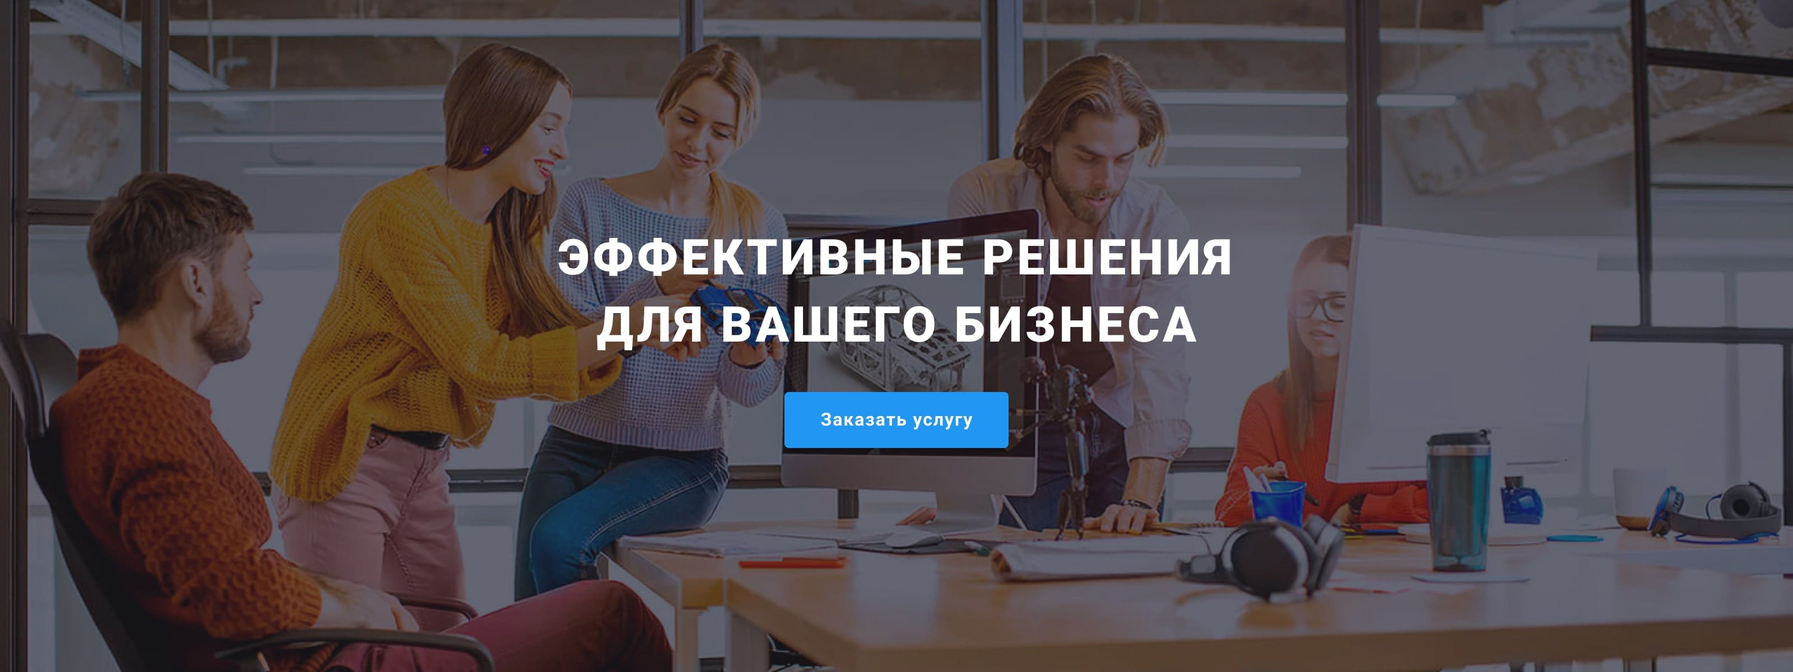
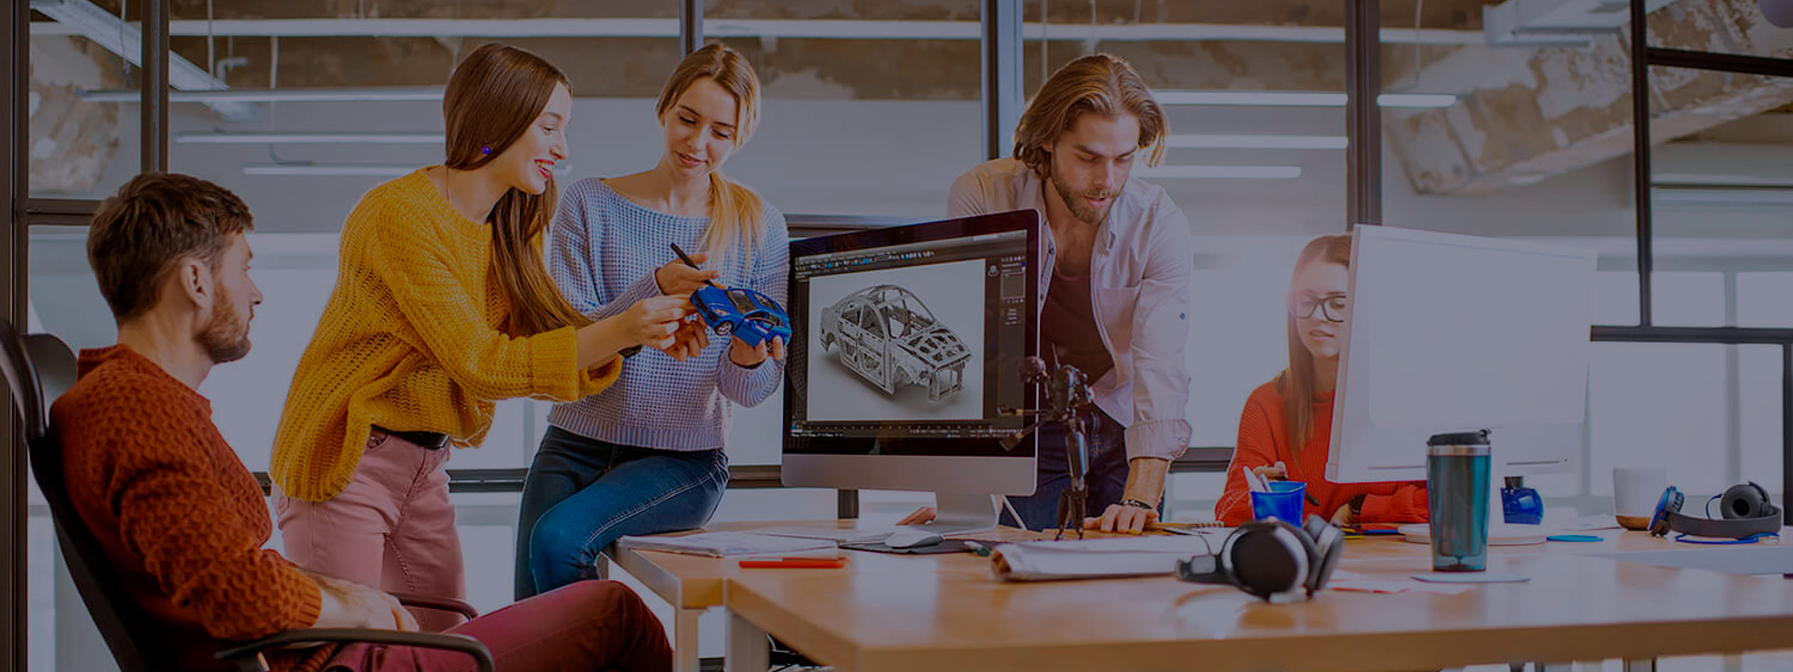
header munu button

diff --git a/css/main.min.css b/css/main.min.css
@@ -1,2 +1,2 @@
-:root{--logo-part1-color: #2196f3;--logo-part2-color-dark: #000000;--logo-part2-color-light: #ffffff;--heder-navigation-color: #212121;--heder-contacts-color: #757575;--accent-color: #2196f3;--title-main-color: #212121;--title-second-color: #ffffff;--text-main-color: #757575;--text-second-color: #ffffff;--btn-main-color: #2196f3;--btn-second-color: #f5f4fa;--btn-accent-color: #188ce8;--btn-text-color: #ffffff;--btn-second-text-color: #212121;--footer-main-text-color: #ffffff;--footer-second-text-color: rgba(255, 255, 255, 0.6);--background-main-color: #ffffff;--items-background-color: #ffffff;--icon-background-color: #ffffff}p,h1,h2,h3{margin:0}img{display:block;max-width:100%}.visually-hidden{position:absolute;white-space:nowrap;width:1px;height:1px;overflow:hidden;border:0;padding:0;clip:rect(0 0 0 0);clip-path:inset(50%);margin:-1px}.backdrop{width:100vw;height:100vh;background-color:rgba(0,0,0,0.2);position:fixed;top:0;transition:opacity 500ms cubic-bezier(0.4, 0, 0.2, 1),visibility 500ms cubic-bezier(0.4, 0, 0.2, 1)}.backdrop.is-hidden .modal{transform:scale(1.5) rotate(180deg);transition:transform 500ms}.modal{width:528px;height:581px;background-color:#fff;box-shadow:0px 1px 3px rgba(0,0,0,0.12),0px 1px 1px rgba(0,0,0,0.14),0px 2px 1px rgba(0,0,0,0.2);border-radius:4px;position:absolute;top:50%;left:50%;transform:scale(1) rotate(0);transform:translate(-50%, -50%);transition:transform 500ms;padding:40px}.modal-close__button{width:30px;height:30px;border:1px solid rgba(0,0,0,0.1);border-radius:50%;position:absolute;background-color:inherit;top:8px;right:8px;display:flex;align-items:center;justify-content:center;transition:fill 250ms cubic-bezier(0.4, 0, 0.2, 1),background-color 250ms cubic-bezier(0.4, 0, 0.2, 1)}.modal-close__button:focus,.modal-close__button:hover+.modal-close__icon{fill:#2196f3;background-color:rgba(0,0,0,0.1)}.modal-close__button:hover,.modal-close__button:focus+.modal-close__icon{fill:#2196f3;background-color:rgba(0,0,0,0.1)}.is-hidden{visibility:hidden;opacity:0;pointer-events:none}.modal__title{font-family:inherit;font-weight:700;font-size:20px;line-height:1.16;color:#212121;text-align:center;margin-bottom:12px}.modal-form{display:block}.modal-form__field{margin-bottom:10px}.modal-form__label{font-family:inherit;font-weight:400;font-size:12px;line-height:1.16;letter-spacing:0.01em;color:#757575;margin-bottom:4px}.modal-form__input{width:100%;height:40px;border:1px solid rgba(33,33,33,0.2);border-radius:4px;padding:12px 12px 12px 42px;color:#757575;outline:none;transition:border-color 250ms cubic-bezier(0.4, 0, 0.2, 1),fill 250ms cubic-bezier(0.4, 0, 0.2, 1)}.modal-form__input:focus{border-color:#2196f3}.modal-form__input:focus+.input__icon{fill:#2196f3}.modal-form__input:focus,.modal-form__textarea:focus{border-color:#2196f3}.input__wrap{position:relative}.input__icon{position:absolute;top:50%;left:12px;display:inline-block;transform:translateY(-50%)}.modal-form__textarea{width:100%;height:120px;resize:none;color:#757575;border:1px solid rgba(33,33,33,0.2);border-radius:4px;padding:12px 16px;outline:none;transition:border-color 250ms cubic-bezier(0.4, 0, 0.2, 1)}.modal-form__textarea::placeholder{font-weight:normal;font-size:12px;line-height:1.16;color:rgba(117,117,117,0.5)}.modal-form__textarea:focus{border-color:#2196f3}.modal-form__field--mar-bot-20{margin-bottom:20px}.modal-check{width:100%;height:100%;margin-bottom:30px}.modal-check__label{font-size:14px;line-height:1.71;letter-spacing:0.03em;color:#757575;display:flex;align-items:center;justify-content:center}.modal-check__item{width:16px;height:15px;border:2px solid #212121;border-radius:2px;display:block;margin-right:8.38px;display:flex;align-items:center;justify-content:center;transition:border-color 250ms cubic-bezier(0.4, 0, 0.2, 1)}.modal-check__input:focus+.modal-check__label .modal-check__item{border-color:#2196f3}.modal-check__icon{fill:#ffffff}.policy-link{color:#2196f3;margin-left:3px}.modal-check__input:checked+.modal-check__label .modal-check__item{background-color:#2196f3;border:none}.modal-form__button{margin:0 auto;border:none;transition:box-shadow 250ms cubic-bezier(0.4, 0, 0.2, 1)}.modal-form__button:hover,.modal-form__button:focus{background-color:#188ce8;box-shadow:0px 4px 4px rgba(0,0,0,0.15)}.container{width:1200px;padding-left:15px;padding-right:15px;margin:0 auto}.section{font-family:'Roboto', sans-serif;font-style:normal;color:var(--text-main-color);padding-top:94px;padding-bottom:94px;background-color:var(--background-main-color)}.logo-part1{font-family:'Raleway';font-weight:700;font-size:26px;line-height:1.19;letter-spacing:0.03em;color:var(--logo-part1-color)}.logo-part2--black{font-family:'Raleway';font-weight:400;font-size:26px;line-height:1.19;letter-spacing:0.03em;color:var(--logo-part2-color-dark)}.logo-part2--white{font-family:'Raleway';font-weight:700;font-size:26px;line-height:1.19;letter-spacing:0.03em;color:var(--logo-part2-color-light)}.button{cursor:pointer;font-family:inherit;font-weight:700;font-size:16px;line-height:1.87;display:flex;align-items:center;text-align:center;letter-spacing:0.06em;background:var(--btn-main-color);color:var(--btn-text-color);box-sizing:border-box;min-width:200px;min-height:50px;border-radius:4px;padding:10px 32px;display:block;transition:background-color 250ms cubic-bezier(0.4, 0, 0.2, 1)}.subscribe__button{width:200px;padding:10px 28px;margin-left:12px;position:relative;display:inline-flex}.subscribe-btn__icon{position:absolute;top:50%;right:28px;transform:translateY(-50%);fill:var(--btn-text-color);margin-left:10px}.list{list-style:none;margin:0;padding:0}.link{text-decoration:none}.header{border-bottom:1px solid #ececec}.header__container{display:flex;align-items:center;justify-content:space-between}.navigation{display:flex;align-items:center}.navigation__list{display:flex;margin-left:95px;width:294px}.navigation__item:not(:last-child){margin-right:50px}.navigation__link{font-weight:500;font-size:14px;line-height:1.14;letter-spacing:0.02em;color:var(--heder-navigation-color);padding-top:35px;padding-bottom:35px;display:flex;align-items:center;transition:color 250ms cubic-bezier(0.4, 0, 0.2, 1);position:relative}.navigation__link:hover,.navigation__link:focus{color:var(--accent-color)}.navigation__link--current{color:var(--accent-color)}.navigation__link--current::after{content:'';width:100%;height:4px;background-color:var(--accent-color);border-radius:2px;position:absolute;display:block;bottom:0}.header-contacts__list{display:inline-flex;justify-content:flex-end}.contacts__item:not(:last-child){margin-right:30px}.contacts__link{font-weight:500;font-size:14px;line-height:1.14;letter-spacing:0.02em;color:var(--heder-contacts-color);padding-top:35px;padding-bottom:35px;display:flex;align-items:center;transition:color 250ms cubic-bezier(0.4, 0, 0.2, 1)}.contacts__link::before{fill:currentColor;margin-right:10px}.contacts__link:hover,.contacts__link:focus{color:var(--accent-color)}.contacts__icon{fill:currentColor;margin-right:10px}.hero__section{background-color:#c4c4c4;background-image:linear-gradient(rgba(47,48,58,0.4), rgba(47,48,58,0.4)),url(../images/Hero-bg.jpg);background-repeat:no-repeat;background-position:center;padding-bottom:200px;padding-top:200px}.hero__title{font-weight:900;font-size:44px;line-height:1.36;text-align:center;letter-spacing:0.06em;text-transform:uppercase;color:var(--title-second-color);max-width:696px;margin:0 auto 30px}.hero__button{margin:0 auto}.hero__button:hover,.hero__button:focus{background-color:#188ce8}.features__section{padding-bottom:0px}.features__list{display:flex}.features__item{width:270px}.features__item+.features__item{margin-left:30px}.futures__picture{width:270px;height:120px;background:#f5f4fa;padding:25px 100px;margin-bottom:30px;border-radius:4px}.futures__icon{width:70px;height:70px}.features__title{font-weight:700;font-size:14px;line-height:1.14;letter-spacing:0.03em;text-transform:uppercase;color:var(--title-main-color);margin-bottom:10px}.features__text{font-weight:400;font-size:14px;line-height:1.71;letter-spacing:0.03em;color:var(--text-main-color)}.directions__title{font-weight:700;font-size:36px;line-height:1.17;text-align:center;letter-spacing:0.03em;color:var(--title-main-color);margin-bottom:50px}.directions__list{display:flex;padding-left:0px}.directions__item:not(:last-child){margin-right:30px}.directions__card{position:relative;bottom:0;right:0;width:100%;display:block}.directions__text-wrap{position:absolute;bottom:0;right:0;width:100%;height:23.8%;background-color:rgba(47,48,58,0.8);padding:27px 0;display:flex;justify-content:center}.directions__text{font-weight:700;font-size:14px;line-height:1.14;letter-spacing:0.03em;color:#ffffff;text-transform:uppercase}.team__section{background-color:#f5f4fa}.team__title{font-weight:bold;font-size:36px;line-height:1.16;text-align:center;letter-spacing:0.03em;color:var(--title-main-color);margin-bottom:50px}.team__list{display:flex;flex-wrap:wrap}.team__card{background:var(--items-background-color);width:270px;filter:drop-shadow(0px 4px 4px rgba(0,0,0,0.25))}.team__card:not(:last-child){margin-right:30px}.team-member__info{padding-top:30px;padding-bottom:30px}.team-member__title{font-weight:500;font-size:16px;line-height:1.19;text-align:center;letter-spacing:0.03em;color:var(--title-main-color);margin-bottom:10px}.team-member__text{font-weight:400;font-size:16px;line-height:1.19;text-align:center;letter-spacing:0.03em;color:var(--text-main-color);margin-bottom:16px}.social-networks__list{display:flex;justify-content:center}.social-networks__picture{width:44px;height:44px}.social-networks__picture+.social-networks__picture{margin-left:10px}.social-networks__link{width:100%;height:100%;display:block;background-color:inherit;border-radius:50%;display:flex;align-items:center;justify-content:center;color:#afb1b8;transition:background-color 250ms cubic-bezier(0.4, 0, 0.2, 1),color 250ms cubic-bezier(0.4, 0, 0.2, 1)}.social-networks__link:hover,.social-networks__link:focus{background-color:#2196f3;color:#ffffff}.social-networks__icon{fill:currentColor}.customers__title{font-weight:700;font-size:36px;line-height:1.16;text-align:center;letter-spacing:0.03em;color:var(--title-main-color);margin-bottom:50px}.customers__list{display:flex}.customers__picture{width:170px;height:92px}.customers__picture:not(:last-child){margin-right:30px}.customers__link{width:100%;height:100%;display:block;background-color:var(--icon-background-color);display:flex;align-items:center;justify-content:center;color:#afb1b8;border:1px solid #afb1b8;box-sizing:border-box;border-radius:4px;padding:16px 32px;transition:color 250ms cubic-bezier(0.4, 0, 0.2, 1),border 250ms cubic-bezier(0.4, 0, 0.2, 1)}.customers__link:hover,.customers__link:focus{color:#2196f3;border:1px solid #2196f3}.customers__icon{fill:currentColor}.portfolio-filter__list{display:flex;margin:0 auto 34px;justify-content:center}.portfolio-filter__list:not(:last-child){margin-right:8px}.portfolio-filter__items:not(:last-child){margin-right:8px}.portfolio-filter__button{background-color:#f5f4fa;font-family:inherit;font-weight:500;font-size:16px;line-height:1.62;text-align:center;letter-spacing:0.03em;color:var(--btn-second-text-color);min-width:73px;padding:6px 22px;display:block;border:transparent;border-radius:4px;transition:color 250ms cubic-bezier(0.4, 0, 0.2, 1),background-color 250ms cubic-bezier(0.4, 0, 0.2, 1),box-shadow 250ms cubic-bezier(0.4, 0, 0.2, 1)}.portfolio-filter__button:hover,.portfolio-filter__button:focus{background-color:var(--btn-main-color);font-weight:500;font-size:16px;line-height:1.62;text-align:center;letter-spacing:0.03em;color:var(--btn-text-color);box-shadow:0px 3px 1px rgba(0,0,0,0.1),0px 1px 2px rgba(0,0,0,0.08),0px 2px 2px rgba(0,0,0,0.12)}.portfolio__cards{display:flex;flex-wrap:wrap;margin-left:-30px;margin-top:-30px}.portfolio__item{margin-top:30px;flex-basis:calc(100% / 3 - 30px);margin-left:30px;background:var(--items-background-color);transition:box-shadow 250ms cubic-bezier(0.4, 0, 0.2, 1)}.portfolio__item:hover,.portfolio__item:focus{box-shadow:0px 4px 4px rgba(133,107,107,0.25)}.portfolio__item:hover .portfolio__toptext{transform:translateY(0)}.portfolio__link{text-decoration:none}.portfolio__image{position:relative;overflow:hidden}.portfolio__toptext{position:absolute;top:0;left:0;background-color:rgba(33,150,243,0.9);padding:63px 24px;font-weight:400;font-size:18px;line-height:1.55;letter-spacing:0.03em;color:var(--text-second-color);overflow:auto;height:100%;transform:translateY(100%);transition:transform 250ms cubic-bezier(0.4, 0, 0.2, 1)}.portfolio__info{padding:20px 24px;border-bottom:1px solid #eeeeee;border-left:1px solid #eeeeee;border-right:1px solid #eeeeee}.portfolio__title{font-weight:700;font-size:18px;line-height:2;letter-spacing:0.06em;color:var(--title-main-color)}.portfolio__text{font-weight:400;font-size:16px;line-height:1.87;letter-spacing:0.03em;color:var(--text-main-color);margin-top:4px}.footer{background:#2f303a;padding-top:60px;padding-bottom:60px}.footer__container{display:flex;align-items:baseline}.footer__address-wrap{width:231px}.footer-logo{display:block;margin-bottom:20px}.footer-address__item:not(:last-child){margin-bottom:9px}.footer-address__link{font-weight:400;font-size:14px;line-height:1.71;letter-spacing:0.03em;color:var(--footer-second-text-color);font-style:normal}.footer-address__link--light{color:var(--footer-main-text-color)}.footer__social{width:206px;height:80px;margin-left:70px}.social-networks__link--footer{background-color:#ffffff1a}.footer__title{font-weight:700;font-size:14px;line-height:1.14;letter-spacing:0.03em;color:var(--footer-main-text-color);margin-bottom:20px;text-transform:uppercase}.footer__subscribe{margin-left:93px;padding-top:12px;width:570px}.footer__form{display:flex;align-items:center;justify-content:space-between;position:relative}.footer-form__input{width:358px;height:50px;background-color:transparent;color:var(--footer-main-text-color);border:1px solid rgba(255,255,255,0.3);box-shadow:0px 4px 4px rgba(0,0,0,0.15);border-radius:4px;padding:15px 16px;color:gba(255, 255, 255, 0.6)}
+:root{--logo-part1-color: #2196f3;--logo-part2-color-dark: #000000;--logo-part2-color-light: #ffffff;--heder-navigation-color: #212121;--heder-contacts-color: #757575;--accent-color: #2196f3;--title-main-color: #212121;--title-second-color: #ffffff;--text-main-color: #757575;--text-second-color: #ffffff;--btn-main-color: #2196f3;--btn-second-color: #f5f4fa;--btn-accent-color: #188ce8;--btn-text-color: #ffffff;--btn-second-text-color: #212121;--footer-main-text-color: #ffffff;--footer-second-text-color: rgba(255, 255, 255, 0.6);--background-main-color: #ffffff;--items-background-color: #ffffff;--icon-background-color: #ffffff}p,h1,h2,h3{margin:0}img{display:block;max-width:100%}.visually-hidden{position:absolute;white-space:nowrap;width:1px;height:1px;overflow:hidden;border:0;padding:0;clip:rect(0 0 0 0);clip-path:inset(50%);margin:-1px}.backdrop{width:100vw;height:100vh;background-color:rgba(0,0,0,0.2);position:fixed;top:0;transition:opacity 500ms cubic-bezier(0.4, 0, 0.2, 1),visibility 500ms cubic-bezier(0.4, 0, 0.2, 1)}.backdrop.is-hidden .modal{transform:scale(1.5) rotate(180deg);transition:transform 500ms}.modal{width:528px;height:581px;background-color:#fff;box-shadow:0px 1px 3px rgba(0,0,0,0.12),0px 1px 1px rgba(0,0,0,0.14),0px 2px 1px rgba(0,0,0,0.2);border-radius:4px;position:absolute;top:50%;left:50%;transform:scale(1) rotate(0);transform:translate(-50%, -50%);transition:transform 500ms;padding:40px}.modal-close__button{width:30px;height:30px;border:1px solid rgba(0,0,0,0.1);border-radius:50%;position:absolute;background-color:inherit;top:8px;right:8px;display:flex;align-items:center;justify-content:center;transition:fill 250ms cubic-bezier(0.4, 0, 0.2, 1),background-color 250ms cubic-bezier(0.4, 0, 0.2, 1)}.modal-close__button:focus,.modal-close__button:hover+.modal-close__icon{fill:#2196f3;background-color:rgba(0,0,0,0.1)}.modal-close__button:hover,.modal-close__button:focus+.modal-close__icon{fill:#2196f3;background-color:rgba(0,0,0,0.1)}.is-hidden{visibility:hidden;opacity:0;pointer-events:none}.modal__title{font-family:inherit;font-weight:700;font-size:20px;line-height:1.16;color:#212121;text-align:center;margin-bottom:12px}.modal-form{display:block}.modal-form__field{margin-bottom:10px}.modal-form__label{font-family:inherit;font-weight:400;font-size:12px;line-height:1.16;letter-spacing:0.01em;color:#757575;margin-bottom:4px}.modal-form__input{width:100%;height:40px;border:1px solid rgba(33,33,33,0.2);border-radius:4px;padding:12px 12px 12px 42px;color:#757575;outline:none;transition:border-color 250ms cubic-bezier(0.4, 0, 0.2, 1),fill 250ms cubic-bezier(0.4, 0, 0.2, 1)}.modal-form__input:focus{border-color:#2196f3}.modal-form__input:focus+.input__icon{fill:#2196f3}.modal-form__input:focus,.modal-form__textarea:focus{border-color:#2196f3}.input__wrap{position:relative}.input__icon{position:absolute;top:50%;left:12px;display:inline-block;transform:translateY(-50%)}.modal-form__textarea{width:100%;height:120px;resize:none;color:#757575;border:1px solid rgba(33,33,33,0.2);border-radius:4px;padding:12px 16px;outline:none;transition:border-color 250ms cubic-bezier(0.4, 0, 0.2, 1)}.modal-form__textarea::placeholder{font-weight:normal;font-size:12px;line-height:1.16;color:rgba(117,117,117,0.5)}.modal-form__textarea:focus{border-color:#2196f3}.modal-form__field--mar-bot-20{margin-bottom:20px}.modal-check{width:100%;height:100%;margin-bottom:30px}.modal-check__label{font-size:14px;line-height:1.71;letter-spacing:0.03em;color:#757575;display:flex;align-items:center;justify-content:center}.modal-check__item{width:16px;height:15px;border:2px solid #212121;border-radius:2px;display:block;margin-right:8.38px;display:flex;align-items:center;justify-content:center;transition:border-color 250ms cubic-bezier(0.4, 0, 0.2, 1)}.modal-check__input:focus+.modal-check__label .modal-check__item{border-color:#2196f3}.modal-check__icon{fill:#ffffff}.policy-link{color:#2196f3;margin-left:3px}.modal-check__input:checked+.modal-check__label .modal-check__item{background-color:#2196f3;border:none}.modal-form__button{margin:0 auto;border:none;transition:box-shadow 250ms cubic-bezier(0.4, 0, 0.2, 1)}.modal-form__button:hover,.modal-form__button:focus{background-color:#188ce8;box-shadow:0px 4px 4px rgba(0,0,0,0.15)}.menu-mob__btn{background-color:transparent;border:none;margin-left:auto}.menu-mob__btn:focus,.menu-mob__btn:hover+.menu-mob-icon{fill:#2196f3}.menu-mob__btn:hover,.menu-mob__btn:focus+.menu-mob-icon{fill:#2196f3}.menu-mob-icon{border:none;background-color:#fff}.container{width:100%;padding-left:15px;padding-right:15px;margin:0 auto}.section{font-family:'Roboto', sans-serif;font-style:normal;color:var(--text-main-color);background-color:var(--background-main-color);padding-top:60px;padding-bottom:60px}@media (min-width: 1200px){.section{padding-top:94px;padding-bottom:94px}}.logo-part1{font-family:'Raleway';font-weight:700;font-size:26px;line-height:1.19;letter-spacing:0.03em;color:var(--logo-part1-color)}.logo-part2--black{font-family:'Raleway';font-weight:400;font-size:26px;line-height:1.19;letter-spacing:0.03em;color:var(--logo-part2-color-dark)}.logo-part2--white{font-family:'Raleway';font-weight:700;font-size:26px;line-height:1.19;letter-spacing:0.03em;color:var(--logo-part2-color-light)}.button{cursor:pointer;font-family:inherit;font-weight:700;font-size:16px;line-height:1.87;display:flex;align-items:center;text-align:center;letter-spacing:0.06em;background:var(--btn-main-color);color:var(--btn-text-color);box-sizing:border-box;min-width:200px;min-height:50px;border-radius:4px;padding:10px 32px;display:block;transition:background-color 250ms cubic-bezier(0.4, 0, 0.2, 1)}.subscribe__button{width:200px;padding:10px 28px;margin-left:12px;position:relative;display:inline-flex}.subscribe-btn__icon{position:absolute;top:50%;right:28px;transform:translateY(-50%);fill:var(--btn-text-color);margin-left:10px}.list{list-style:none;margin:0;padding:0}.link{text-decoration:none}.header{border-bottom:1px solid #ececec}.header__container{display:flex;align-items:center;justify-content:space-between}.navigation{display:flex;align-items:center}.navigation__list{display:flex;margin-left:95px;width:294px}.navigation__item:not(:last-child){margin-right:50px}.navigation__link{font-weight:500;font-size:14px;line-height:1.14;letter-spacing:0.02em;color:var(--heder-navigation-color);padding-top:35px;padding-bottom:35px;display:flex;align-items:center;transition:color 250ms cubic-bezier(0.4, 0, 0.2, 1);position:relative}.navigation__link:hover,.navigation__link:focus{color:var(--accent-color)}.navigation__link--current{color:var(--accent-color)}.navigation__link--current::after{content:'';width:100%;height:4px;background-color:var(--accent-color);border-radius:2px;position:absolute;display:block;bottom:0}.header-contacts__list{display:inline-flex;justify-content:flex-end}.contacts__item:not(:last-child){margin-right:30px}.contacts__link{font-weight:500;font-size:14px;line-height:1.14;letter-spacing:0.02em;color:var(--heder-contacts-color);padding-top:35px;padding-bottom:35px;display:flex;align-items:center;transition:color 250ms cubic-bezier(0.4, 0, 0.2, 1)}.contacts__link::before{fill:currentColor;margin-right:10px}.contacts__link:hover,.contacts__link:focus{color:var(--accent-color)}.contacts__icon{fill:currentColor;margin-right:10px}.hero__section{background-color:#c4c4c4;background-image:linear-gradient(rgba(47,48,58,0.4), rgba(47,48,58,0.4)),url(../../images/hero-bg/Hero-bg-mob.jpg);background-repeat:no-repeat;background-position:center;background-size:cover;padding:118px 60px}@media screen and (min-device-pixel-ratio: 2), (min-resolution: 192dpi), (min-resolution: 2dppx){.hero__section{background-image:linear-gradient(rgba(47,48,58,0.4), rgba(47,48,58,0.4)),url(../../images/hero-bg/Hero-bg-mob-2x.jpg)}}@media screen and (min-width: 768x){.hero__section{padding:118px 204px;background-image:linear-gradient(rgba(47,48,58,0.4), rgba(47,48,58,0.4)),url(../../images/hero-bg/Hero-bg-tab.jpg)}}@media screen and (min-width: 768x) and (min-device-pixel-ratio: 2), screen and (min-width: 768x) and (min-resolution: 192dpi), screen and (min-width: 768x) and (min-resolution: 2dppx){.hero__section{background-image:linear-gradient(rgba(47,48,58,0.4), rgba(47,48,58,0.4)),url(../../images/hero-bg/Hero-bg-tab-2x.jpg)}}@media screen and (min-width: 1200px){.hero__section{padding:200px 452px;background-image:linear-gradient(rgba(47,48,58,0.4), rgba(47,48,58,0.4)),url(../../images/hero-bg/Hero-bg.jpg)}}@media screen and (min-width: 1200px) and (min-device-pixel-ratio: 2), screen and (min-width: 1200px) and (min-resolution: 192dpi), screen and (min-width: 1200px) and (min-resolution: 2dppx){.hero__section{background-image:linear-gradient(rgba(47,48,58,0.4), rgba(47,48,58,0.4)),url(../../images/hero-bg/Hero-bg-2x.jpg)}}.hero__title{font-weight:900;font-size:26px;line-height:1.61;text-align:center;letter-spacing:0.06em;text-transform:uppercase;color:var(--title-second-color);margin:0 auto 30px;max-width:360px;min-height:84px}@media screen and (min-width: 1200px){.hero__title{font-size:44px;line-height:1.36;max-width:696px}}.hero__button{margin:0 auto}.hero__button:hover,.hero__button:focus{background-color:#188ce8}.features__section{padding-bottom:0px}.features__list{display:flex}.features__item{width:270px}.features__item+.features__item{margin-left:30px}.futures__picture{width:270px;height:120px;background:#f5f4fa;padding:25px 100px;margin-bottom:30px;border-radius:4px}.futures__icon{width:70px;height:70px}.features__title{font-weight:700;font-size:14px;line-height:1.14;letter-spacing:0.03em;text-transform:uppercase;color:var(--title-main-color);margin-bottom:10px}.features__text{font-weight:400;font-size:14px;line-height:1.71;letter-spacing:0.03em;color:var(--text-main-color)}.directions__title{font-weight:700;font-size:36px;line-height:1.17;text-align:center;letter-spacing:0.03em;color:var(--title-main-color);margin-bottom:50px}.directions__list{display:flex;padding-left:0px}.directions__item:not(:last-child){margin-right:30px}.directions__card{position:relative;bottom:0;right:0;width:100%;display:block}.directions__text-wrap{position:absolute;bottom:0;right:0;width:100%;height:23.8%;background-color:rgba(47,48,58,0.8);padding:27px 0;display:flex;justify-content:center}.directions__text{font-weight:700;font-size:14px;line-height:1.14;letter-spacing:0.03em;color:#ffffff;text-transform:uppercase}.team__section{background-color:#f5f4fa}.team__title{font-weight:bold;font-size:36px;line-height:1.16;text-align:center;letter-spacing:0.03em;color:var(--title-main-color);margin-bottom:50px}.team__list{display:flex;flex-wrap:wrap}.team__card{background:var(--items-background-color);width:270px;filter:drop-shadow(0px 4px 4px rgba(0,0,0,0.25))}.team__card:not(:last-child){margin-right:30px}.team-member__info{padding-top:30px;padding-bottom:30px}.team-member__title{font-weight:500;font-size:16px;line-height:1.19;text-align:center;letter-spacing:0.03em;color:var(--title-main-color);margin-bottom:10px}.team-member__text{font-weight:400;font-size:16px;line-height:1.19;text-align:center;letter-spacing:0.03em;color:var(--text-main-color);margin-bottom:16px}.social-networks__list{display:flex;justify-content:center}.social-networks__picture{width:44px;height:44px}.social-networks__picture+.social-networks__picture{margin-left:10px}.social-networks__link{width:100%;height:100%;display:block;background-color:inherit;border-radius:50%;display:flex;align-items:center;justify-content:center;color:#afb1b8;transition:background-color 250ms cubic-bezier(0.4, 0, 0.2, 1),color 250ms cubic-bezier(0.4, 0, 0.2, 1)}.social-networks__link:hover,.social-networks__link:focus{background-color:#2196f3;color:#ffffff}.social-networks__icon{fill:currentColor}.customers__title{font-weight:700;font-size:36px;line-height:1.16;text-align:center;letter-spacing:0.03em;color:var(--title-main-color);margin-bottom:50px}.customers__list{display:flex}.customers__picture{width:170px;height:92px}.customers__picture:not(:last-child){margin-right:30px}.customers__link{width:100%;height:100%;display:block;background-color:var(--icon-background-color);display:flex;align-items:center;justify-content:center;color:#afb1b8;border:1px solid #afb1b8;box-sizing:border-box;border-radius:4px;padding:16px 32px;transition:color 250ms cubic-bezier(0.4, 0, 0.2, 1),border 250ms cubic-bezier(0.4, 0, 0.2, 1)}.customers__link:hover,.customers__link:focus{color:#2196f3;border:1px solid #2196f3}.customers__icon{fill:currentColor}.portfolio-filter__list{display:flex;margin:0 auto 34px;justify-content:center}.portfolio-filter__list:not(:last-child){margin-right:8px}.portfolio-filter__items:not(:last-child){margin-right:8px}.portfolio-filter__button{background-color:#f5f4fa;font-family:inherit;font-weight:500;font-size:16px;line-height:1.62;text-align:center;letter-spacing:0.03em;color:var(--btn-second-text-color);min-width:73px;padding:6px 22px;display:block;border:transparent;border-radius:4px;transition:color 250ms cubic-bezier(0.4, 0, 0.2, 1),background-color 250ms cubic-bezier(0.4, 0, 0.2, 1),box-shadow 250ms cubic-bezier(0.4, 0, 0.2, 1)}.portfolio-filter__button:hover,.portfolio-filter__button:focus{background-color:var(--btn-main-color);font-weight:500;font-size:16px;line-height:1.62;text-align:center;letter-spacing:0.03em;color:var(--btn-text-color);box-shadow:0px 3px 1px rgba(0,0,0,0.1),0px 1px 2px rgba(0,0,0,0.08),0px 2px 2px rgba(0,0,0,0.12)}.portfolio__cards{display:flex;flex-wrap:wrap;margin-left:-30px;margin-top:-30px}.portfolio__item{margin-top:30px;flex-basis:calc(100% / 3 - 30px);margin-left:30px;background:var(--items-background-color);transition:box-shadow 250ms cubic-bezier(0.4, 0, 0.2, 1)}.portfolio__item:hover,.portfolio__item:focus{box-shadow:0px 4px 4px rgba(133,107,107,0.25)}.portfolio__item:hover .portfolio__toptext{transform:translateY(0)}.portfolio__link{text-decoration:none}.portfolio__image{position:relative;overflow:hidden}.portfolio__toptext{position:absolute;top:0;left:0;background-color:rgba(33,150,243,0.9);padding:63px 24px;font-weight:400;font-size:18px;line-height:1.55;letter-spacing:0.03em;color:var(--text-second-color);overflow:auto;height:100%;transform:translateY(100%);transition:transform 250ms cubic-bezier(0.4, 0, 0.2, 1)}.portfolio__info{padding:20px 24px;border-bottom:1px solid #eeeeee;border-left:1px solid #eeeeee;border-right:1px solid #eeeeee}.portfolio__title{font-weight:700;font-size:18px;line-height:2;letter-spacing:0.06em;color:var(--title-main-color)}.portfolio__text{font-weight:400;font-size:16px;line-height:1.87;letter-spacing:0.03em;color:var(--text-main-color);margin-top:4px}.footer{background:#2f303a;padding-top:60px;padding-bottom:60px}.footer__container{display:flex;align-items:baseline}.footer__address-wrap{width:231px}.footer-logo{display:block;margin-bottom:20px}.footer-address__item:not(:last-child){margin-bottom:9px}.footer-address__link{font-weight:400;font-size:14px;line-height:1.71;letter-spacing:0.03em;color:var(--footer-second-text-color);font-style:normal}.footer-address__link--light{color:var(--footer-main-text-color)}.footer__social{width:206px;height:80px;margin-left:70px}.social-networks__link--footer{background-color:#ffffff1a}.footer__title{font-weight:700;font-size:14px;line-height:1.14;letter-spacing:0.03em;color:var(--footer-main-text-color);margin-bottom:20px;text-transform:uppercase}.footer__subscribe{margin-left:93px;padding-top:12px;width:570px}.footer__form{display:flex;align-items:center;justify-content:space-between;position:relative}.footer-form__input{width:358px;height:50px;background-color:transparent;color:var(--footer-main-text-color);border:1px solid rgba(255,255,255,0.3);box-shadow:0px 4px 4px rgba(0,0,0,0.15);border-radius:4px;padding:15px 16px;color:gba(255, 255, 255, 0.6)}
 /*# sourceMappingURL=main.min.css.map */

diff --git a/css/main.css b/css/main.css
@@ -257,8 +257,29 @@ img {
   box-shadow: 0px 4px 4px rgba(0, 0, 0, 0.15);
 }
 
+.menu-mob__btn {
+  background-color: transparent;
+  border: none;
+  margin-left: auto;
+}
+
+.menu-mob__btn:focus,
+.menu-mob__btn:hover + .menu-mob-icon {
+  fill: #2196f3;
+}
+
+.menu-mob__btn:hover,
+.menu-mob__btn:focus + .menu-mob-icon {
+  fill: #2196f3;
+}
+
+.menu-mob-icon {
+  border: none;
+  background-color: #fff;
+}
+
 .container {
-  width: 1200px;
+  width: 100%;
   padding-left: 15px;
   padding-right: 15px;
   margin: 0 auto;
@@ -268,9 +289,16 @@ img {
   font-family: 'Roboto', sans-serif;
   font-style: normal;
   color: var(--text-main-color);
-  padding-top: 94px;
-  padding-bottom: 94px;
   background-color: var(--background-main-color);
+  padding-top: 60px;
+  padding-bottom: 60px;
+}
+
+@media (min-width: 1200px) {
+  .section {
+    padding-top: 94px;
+    padding-bottom: 94px;
+  }
 }
 
 .logo-part1 {
@@ -444,23 +472,64 @@ img {
 
 .hero__section {
   background-color: #c4c4c4;
-  background-image: linear-gradient(rgba(47, 48, 58, 0.4), rgba(47, 48, 58, 0.4)), url(../images/Hero-bg.jpg);
+  background-image: linear-gradient(rgba(47, 48, 58, 0.4), rgba(47, 48, 58, 0.4)), url(../../images/hero-bg/Hero-bg-mob.jpg);
   background-repeat: no-repeat;
   background-position: center;
-  padding-bottom: 200px;
-  padding-top: 200px;
+  background-size: cover;
+  padding: 118px 60px;
+}
+
+@media screen and (min-device-pixel-ratio: 2), (min-resolution: 192dpi), (min-resolution: 2dppx) {
+  .hero__section {
+    background-image: linear-gradient(rgba(47, 48, 58, 0.4), rgba(47, 48, 58, 0.4)), url(../../images/hero-bg/Hero-bg-mob-2x.jpg);
+  }
+}
+
+@media screen and (min-width: 768x) {
+  .hero__section {
+    padding: 118px 204px;
+    background-image: linear-gradient(rgba(47, 48, 58, 0.4), rgba(47, 48, 58, 0.4)), url(../../images/hero-bg/Hero-bg-tab.jpg);
+  }
+}
+
+@media screen and (min-width: 768x) and (min-device-pixel-ratio: 2), screen and (min-width: 768x) and (min-resolution: 192dpi), screen and (min-width: 768x) and (min-resolution: 2dppx) {
+  .hero__section {
+    background-image: linear-gradient(rgba(47, 48, 58, 0.4), rgba(47, 48, 58, 0.4)), url(../../images/hero-bg/Hero-bg-tab-2x.jpg);
+  }
+}
+
+@media screen and (min-width: 1200px) {
+  .hero__section {
+    padding: 200px 452px;
+    background-image: linear-gradient(rgba(47, 48, 58, 0.4), rgba(47, 48, 58, 0.4)), url(../../images/hero-bg/Hero-bg.jpg);
+  }
+}
+
+@media screen and (min-width: 1200px) and (min-device-pixel-ratio: 2), screen and (min-width: 1200px) and (min-resolution: 192dpi), screen and (min-width: 1200px) and (min-resolution: 2dppx) {
+  .hero__section {
+    background-image: linear-gradient(rgba(47, 48, 58, 0.4), rgba(47, 48, 58, 0.4)), url(../../images/hero-bg/Hero-bg-2x.jpg);
+  }
 }
 
 .hero__title {
   font-weight: 900;
-  font-size: 44px;
-  line-height: 1.36;
+  font-size: 26px;
+  line-height: 1.61;
   text-align: center;
   letter-spacing: 0.06em;
   text-transform: uppercase;
   color: var(--title-second-color);
-  max-width: 696px;
   margin: 0 auto 30px;
+  max-width: 360px;
+  min-height: 84px;
+}
+
+@media screen and (min-width: 1200px) {
+  .hero__title {
+    font-size: 44px;
+    line-height: 1.36;
+    max-width: 696px;
+  }
 }
 
 .hero__button {

diff --git a/sass/layout/_hero.scss b/sass/layout/_hero.scss
@@ -1,23 +1,56 @@
 .hero__section {
   background-color: #c4c4c4;
   background-image: linear-gradient(rgba(47, 48, 58, 0.4), rgba(47, 48, 58, 0.4)),
-    url(../../images/hero-bg/Hero-bg-2x.jpg);
+    url(../../images/hero-bg/Hero-bg-mob.jpg);
   background-repeat: no-repeat;
   background-position: center;
-  padding-bottom: 200px;
-  padding-top: 200px;
+  background-size: cover;
+  padding: 118px 60px;
+
+  @media screen and (min-device-pixel-ratio: 2), (min-resolution: 192dpi), (min-resolution: 2dppx) {
+    background-image: linear-gradient(rgba(47, 48, 58, 0.4), rgba(47, 48, 58, 0.4)),
+      url(../../images/hero-bg/Hero-bg-mob-2x.jpg);
+  }
+  @media screen and (min-width: 768x) {
+    padding: 118px 204px;
+    background-image: linear-gradient(rgba(47, 48, 58, 0.4), rgba(47, 48, 58, 0.4)),
+      url(../../images/hero-bg/Hero-bg-tab.jpg);
+    @media screen and (min-device-pixel-ratio: 2),
+      (min-resolution: 192dpi),
+      (min-resolution: 2dppx) {
+      background-image: linear-gradient(rgba(47, 48, 58, 0.4), rgba(47, 48, 58, 0.4)),
+        url(../../images/hero-bg/Hero-bg-tab-2x.jpg);
+    }
+  }
+  @media screen and (min-width: 1200px) {
+    padding: 200px 452px;
+    background-image: linear-gradient(rgba(47, 48, 58, 0.4), rgba(47, 48, 58, 0.4)),
+      url(../../images/hero-bg/Hero-bg.jpg);
+    @media screen and (min-device-pixel-ratio: 2),
+      (min-resolution: 192dpi),
+      (min-resolution: 2dppx) {
+      background-image: linear-gradient(rgba(47, 48, 58, 0.4), rgba(47, 48, 58, 0.4)),
+        url(../../images/hero-bg/Hero-bg-2x.jpg);
+    }
+  }
 }
 
 .hero__title {
   font-weight: 900;
-  font-size: 44px;
-  line-height: 1.36;
+  font-size: 26px;
+  line-height: 1.61;
   text-align: center;
   letter-spacing: 0.06em;
   text-transform: uppercase;
   color: var(--title-second-color);
-  max-width: 696px;
   margin: 0 auto 30px;
+  max-width: 360px;
+  min-height: 84px;
+  @media screen and (min-width: 1200px) {
+    font-size: 44px;
+    line-height: 1.36;
+    max-width: 696px;
+  }
 }
 
 .hero__button {

diff --git a/index.html b/index.html
@@ -51,14 +51,19 @@
               </a>
             </li>
         </ul>        
-      </div>  
+      </div>
+      <button type="button" class="menu-mob__btn">
+        <svg class="menu-mob-icon" width=40 height=40>
+          <use href="./images/icons/icons.svg#icon-menu-mob"></use>
+        </svg>
+      </button>
     </header>
     
     <!----------------------------------HERO---------------------------------->
     
     <main>
       <section class="section hero__section">
-        <div class="container">  
+        <div class="conta iner">  
           <h1 class="hero__title hero__title">Эффективные решения для вашего бизнеса</h1>
           <button data-modal-open class="button hero__button" type="button">Заказать услугу</button>
         </div>  

diff --git a/sass/components/_section.scss b/sass/components/_section.scss
@@ -2,7 +2,12 @@
   font-family: 'Roboto', sans-serif;
   font-style: normal;
   color: var(--text-main-color);
-  padding-top: 94px;
-  padding-bottom: 94px;
   background-color: var(--background-main-color);
+  padding-top: 60px;
+  padding-bottom: 60px;
+
+  @media (min-width: 1200px) {
+    padding-top: 94px;
+    padding-bottom: 94px;
+  }
 }

diff --git a/sass/utils/_menu-mob.scss b/sass/utils/_menu-mob.scss
@@ -1,0 +1,18 @@
+.menu-mob__btn {
+  background-color: transparent;
+  border: none;
+  margin-left: auto;
+  &:focus,
+  &:hover + .menu-mob-icon {
+    fill: #2196f3;
+  }
+  &:hover,
+  &:focus + .menu-mob-icon {
+    fill: #2196f3;
+  }
+}
+
+.menu-mob-icon {
+  border: none;
+  background-color: #fff;
+}

diff --git a/sass/main.scss b/sass/main.scss
@@ -2,6 +2,7 @@
 @import './base/reset';
 @import './utils/hidden';
 @import './utils/modal';
+@import './utils/menu-mob';
 
 @import './components/container';
 @import './components/section';

diff --git a/sass/components/_container.scss b/sass/components/_container.scss
@@ -1,5 +1,5 @@
 .container {
-  width: 1200px;
+  width: 100%;
   padding-left: 15px;
   padding-right: 15px;
   margin: 0 auto;
